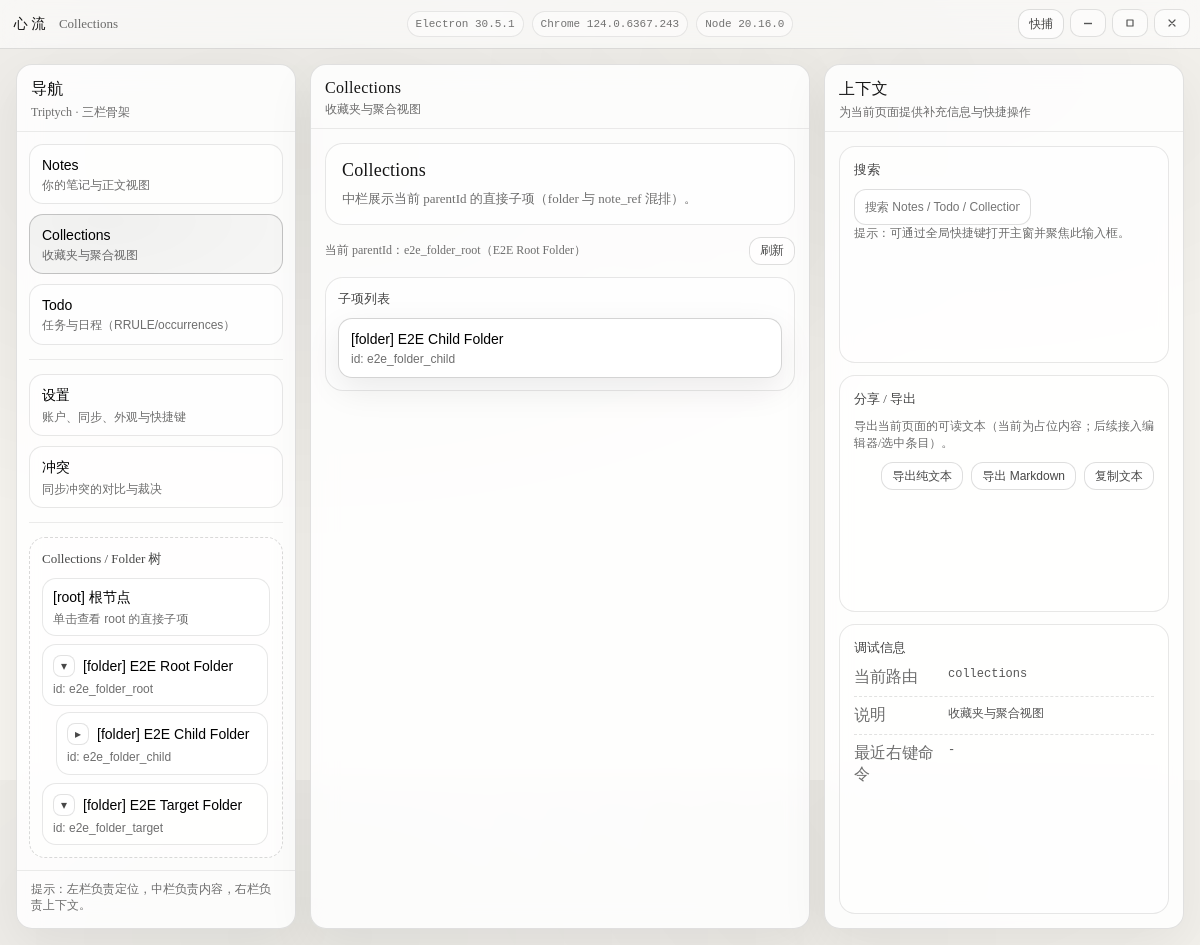
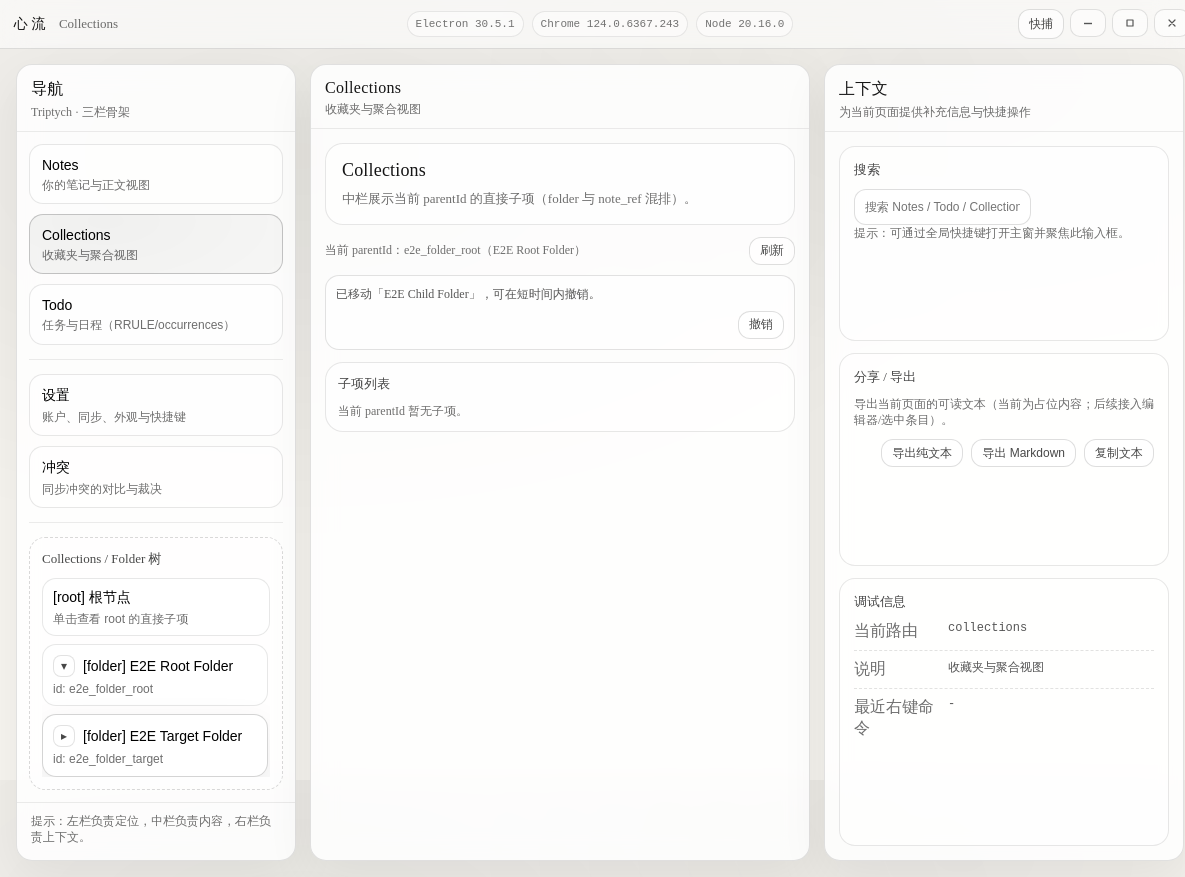
fix(collections): 稳定 Task46 拖拽与证据截图

diff --git a/src/renderer/App.tsx b/src/renderer/App.tsx
@@ -1185,6 +1185,30 @@ function CollectionsMiddleDraggableItem(props: {
     zIndex: isDragging ? 2 : undefined,
   };
 
+  const mergedOnMouseDown = useCallback(
+    (event: ReactMouseEvent<HTMLButtonElement>) => {
+      if (event.button === 0) {
+        props.onMouseDragStart({
+          itemId: props.item.id,
+          clientX: event.clientX,
+          clientY: event.clientY,
+        });
+      }
+      listeners?.onMouseDown?.(event);
+    },
+    [listeners, props.item.id, props.onMouseDragStart]
+  );
+
+  const mergedListeners = useMemo(() => {
+    if (!listeners) {
+      return undefined;
+    }
+    return {
+      ...listeners,
+      onMouseDown: mergedOnMouseDown,
+    };
+  }, [listeners, mergedOnMouseDown]);
+
   return (
     <button
       ref={setNodeRef}
@@ -1201,18 +1225,8 @@ function CollectionsMiddleDraggableItem(props: {
         e.preventDefault();
         props.onPopupMiddleItemMenu(props.item.id);
       }}
-      onMouseDown={(e) => {
-        if (e.button !== 0) {
-          return;
-        }
-        props.onMouseDragStart({
-          itemId: props.item.id,
-          clientX: e.clientX,
-          clientY: e.clientY,
-        });
-      }}
       {...attributes}
-      {...listeners}
+      {...mergedListeners}
     >
       <div className="listRowTitle">
         [{props.item.itemType}] {props.item.name || '（未命名）'}

diff --git a/e2e/task-46-dnd.spec.ts b/e2e/task-46-dnd.spec.ts
@@ -75,6 +75,7 @@ test('Task 46：中栏拖拽到左栏 folder（乐观更新 + 撤销）', async 
   });
 
   let page: Awaited<ReturnType<typeof electronApp.firstWindow>> | null = null;
+  let hasUndoVisibleScreenshot = false;
 
   try {
     page = await electronApp.firstWindow();
@@ -102,14 +103,18 @@ test('Task 46：中栏拖拽到左栏 folder（乐观更新 + 撤销）', async 
     await expect.poll(async () => childMiddleItem.count(), { timeout: 10_000 }).toBe(0);
     const undoButton = page.getByTestId('collections-undo-btn');
     await expect(undoButton).toBeVisible();
+
+    await page.screenshot({ path: evidencePng, fullPage: true });
+    hasUndoVisibleScreenshot = true;
+
     await undoButton.click();
 
     await expect(page.getByTestId('middle-list-item-e2e_folder_child')).toBeVisible();
-
-    await page.screenshot({ path: evidencePng, fullPage: true });
   } finally {
     try {
-      await page?.screenshot({ path: evidencePng, fullPage: true });
+      if (!hasUndoVisibleScreenshot) {
+        await page?.screenshot({ path: evidencePng, fullPage: true });
+      }
     } catch {}
     try {
       await electronApp.close();

diff --git a/.ai_session.md b/.ai_session.md
@@ -1152,3 +1152,29 @@
   - `npm run typecheck` 通过
   - `npm run build` 通过
   - `xvfb-run -a npm run test:e2e -- e2e/task-46-dnd.spec.ts` 通过
+
+## [2026-03-01 23:59] - 任务：Task 46 拖拽整理（中栏 -> 左栏树；乐观更新 + 撤销）验收与现状
+
+- 原始需求：实现 Collections 拖拽整理，中栏条目可拖到左栏树节点，落点后乐观更新并支持短时撤销，最终通过 IPC move 落库并进入 outbox。
+- 实现目标/逻辑：
+  - 拖拽交互：中栏条目拖到左栏树节点，UI 层先做“禁止拖入自身/子孙”的防环预检。
+  - 乐观更新：拖拽落点后，先在 renderer 内存态更新树与列表，以获得即时反馈；随后异步调用 preload IPC 发起 move。
+  - IPC move 落库/outbox：renderer -> preload -> main 的 IPC 调用在 main 侧执行 `CollectionsRepo.patchCollectionItem`，同一事务更新 `collection_items`，并写入 `outbox_mutations` 供后续 sync/push。
+  - 撤销回放 move：在撤销窗口期内记录 move 的 before/after parent，点击撤销时复用同一 move 路径回放到原父节点，并同步更新 UI。
+- 核心变更文件：
+  - `src/renderer/App.tsx`
+  - `src/renderer/styles.css`
+  - `src/shared/ipc.ts`
+  - `src/main/ipc.ts`
+  - `src/preload/index.ts`
+  - `src/renderer/vite-env.d.ts`
+  - `src/main/main.ts`
+  - `e2e/task-46-dnd.spec.ts`
+  - 证据图：`.sisyphus/evidence/task-46-dnd.png`
+- 验收结果：
+  - 构建前置：`npm run build` 通过。
+  - E2E：`xvfb-run -a npm run test:e2e -- e2e/task-46-dnd.spec.ts` PASS。
+- 约束/注意事项：
+  - E2E 必须先执行 `npm run build`，否则可能跑到旧的 dist 产物导致用例不稳定。
+  - 证据截图固定路径：`.sisyphus/evidence/task-46-dnd.png`。
+  - `data-testid` 属于硬契约不可随意改动（例如 `folder-tree`、`folder-tree-node-*`、`middle-list-item-*`、`collections-undo-btn`），否则会破坏 Playwright 用例定位与验收一致性。

diff --git a/.sisyphus/notepads/xinliu-desktop/learnings.md b/.sisyphus/notepads/xinliu-desktop/learnings.md
@@ -356,3 +356,6 @@
 - 乐观更新+撤销的关键是记录“原父节点/新父节点”而不是只记录 itemId；这样撤销动作可以显式回放一次 move，且能复用同一 IPC 路径，避免出现 UI 回滚与数据库状态不一致。
 - 树拖拽交互与 Task 45 的 hover/edge-scroll 可共存：hover 展开保持 800ms 常量，edge scroll 用 pointer 的 Y 位置驱动，不依赖原生 DragEvent，能更稳定覆盖 dnd-kit 手势。
 - E2E 断言建议以“中栏条目即时消失 + 撤销入口可见 + 撤销后条目恢复”为最小闭环，截图作为补充证据，减少对过多中间态样式的脆弱依赖。
+
+- [2026-03-01] Task 46（Playwright Electron E2E）跑用例前先执行一次 `npm run build`，否则可能复用旧 `dist/`，导致用例行为与截图证据不稳定（看起来像“偶发/玄学”）。
+- [2026-03-01] Task 46 证据截图 `.sisyphus/evidence/task-46-dnd.png` 必须能看到撤销入口（`collections-undo-*`），避免截图落在“撤销完成后”导致无法证明撤销功能确实存在。
